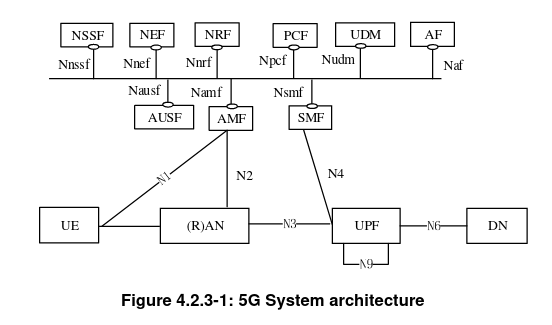
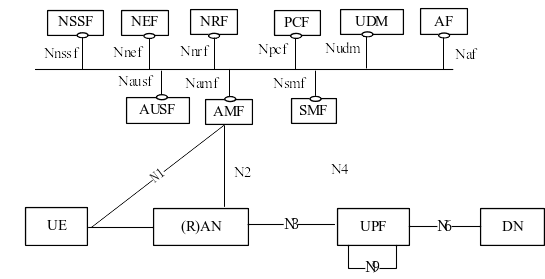
Complete 2.1 5g intro

Changed region(s): [[0.0312, 0.0287, 1.0, 0.9749], [0.2807, 0.4875, 0.3743, 0.6022]]

diff --git a/chapters/2-background.tex b/chapters/2-background.tex
@@ -1,30 +1,189 @@
-\chapter{背景}
+\chapter{背景與挑戰}
 \label{chapter:background}
 
 
-\section{5G 核心網路簡介}
-\label{sec:5g_core_intro}
+行動網路主要分成接入端網路 (AN, access network) 與核心網路 (CN, core network)，其中接入端最常見的形式便是以基地臺 (base station) 為主的無線網路接入 (RAN, radio access network)，主要負責聯接使用者設備 (UE, user equipment) 與核心網路、訊號解碼、波束成型、協助核網進行移動管理等等功能，包含 3G 時期的 nodeB、4G 時的 eNodeB、與 5G 時的 gNodeB。核心網路則是負責處理除接入端外剩下所有事務，包含認證、行動管理、服務品質管理、封包轉送、用量計費、連線與路由規劃、使用者資料紀錄等等功能，包含 2/3G 時的 GPRS 核心網路、4G 的 EPC、與 5G 的 5GC。而核心網路之外會接入資料網路 (DN, data network)，包含但不限於我們常見的網際網路 (the Internet) 或電信商可能會提供的 MEC 網路。完整架構可參考圖~\ref{fig:5g_core_arch}，此為 3GPP 於 23.501~\cite{3gpp.23.501}標準定義之 5G 行動網路架構圖。
+
+本章我們會著墨於 5G 核心網路的介紹，包含用戶層與控制層的介紹，以及常見流程，然後介紹並比較幾個知名的 5G 核心網路專案，最後會描述目前 5G 核心網路所遇到的挑戰。
+
+\begin{figure}[htbp]
+    \centering
+    \includegraphics[height=!,width=1\linewidth,keepaspectratio=true]
+                    {figures/23_501_4-2-3-1_sys_arch_sbi}
+                    % [] 放的是顯示在 list of figure 的文字
+                    % {} 放的是顯示在圖下方的文字
+                    \caption[5G 核網架構]{{\footnotesize 5G 核網架構 (取自 TS 23.501 Figure 4.2.3-1~\cite{3gpp.23.501})}}
+                    \label{fig:5g_core_arch}
+\end{figure}
+\pnote{圖片自畫}
+
+\section{5G 核心網路架構}
+\label{sec:5g_core}
+
+% 介紹功能 CUPS、SBI、NF、NFV
+要瞭解 5G 核心網路首先要對 4G 核心網路有一些概念，在 4G 時代，核心網路主要有幾個重要的部件 (component)，Mobility Management Entity (MME)、Serving Gateway (S-GW)、PDN Gateway (P-GW)、Home Subscriber Server (HSS)、與 Policy and Charging Rules Function (PCRF) (見圖~\ref{4g_core_arch}，這裡不討論其他額外功能)，MME 負責連線與移動的管理，S-GW 負責與 RAN 對接，將 LTE 的承載 (bearer) 轉換成 Internet 的形式，P-GW 負責與網際網路間接，HSS 會紀載使用者資料與幫助認證，PCRF 則是作規則與計價的管理。而隨著 4G 行動網路的發展，3GPP 會議與電信商越加越多新的功能後，發現此架構不再適用於新功能的發展，而決定對核心網路有架構性的改變，而發展出了 5G 核心網路。5G 核心網路在架構上有幾個突破性的改變，包含：
+\begin{itemize}
+    \item \textbf{網路功能虛擬化 (NFV, Network Function Virtualization):} 核心網路爲應印雲端 (cloud) 與微服務 (microservice) 的架構，逐漸往網路功能虛擬化方向發展，及所以功能部件皆以軟體形式呈現以方便於在標準化硬體 (commodity hardware) 上部屬，並且核心網路亦將 4G 的五大部件依據功能性，拆分為更小的單位，並以 Network Function 稱之 (以下簡稱 NF)。
+    \item \textbf{用戶端與控制端分離 (CUPS, Control and User Plane Separation):} 4G 時如 S/P-GW 同時具備用戶端功能與控制端功能，但在逐漸發展後，3GPP 認為應該將用戶端與用戶端分離，於是研議出 4.5G 時的 CUPS，將 S/P-GW 的用戶端功能拉出並以 PFCP (Packet Forwarding Control Protocol) 協定控制，而 5G 時更是把 S/P-GW 的使用者功能合併並獨立拉出成一個 NF。
+    \item \textbf{服務導向架構 (SBA, Service Base Architecture):} 有鑑於 5G 將核網區分為更多小單位的 NF，如此多種不同整類的 NF 若需互相溝通，將需要開發出多種不同的界面與協定而導致開發與擴展困難，因此 3GPP 於 5G 時採用 SBA 架構，其界面統稱為 SBI (Service Base Interface)，透過制定統一的通訊格式，減少需要對每個界面開發出新協定的繁瑣，並且若需要新增界面或 NF，僅需重新使用相同格式便可輕鬆開發出新的界面或 NF。
+    \item \textbf{網路切片 (Network Slice):} 由於 5G 希望提供更多的網路功能給使用者使用，如何限制功能與功能間的接觸、將相似或上下依賴的功能分群、以及將網路功能有效的擴充或縮減以有效利用資源便是以此而生的問題。而網路切片便是提供幫助網路功能的分群的服務，透過網路切片的概念，可以讓管理者以切片為單位，更方便的管理大量的網路服務。
+\end{itemize}
+
+\cnote{畫圖\_4g\_core\_arch}
 
 % 介紹各個 NF
+
+爲因應以上幾個架構性改變，核心網路成新將重新定義成多個 NF，3GPP 會議於 Release-15 時至少定義了 23 種 NF (詳見 TS 23.501 6.2 章)，我們取其中較為重要的 9 個 NF 來介紹：
+
+% This LaTeX table template is generated by emacs 27.2
+%\begin{center}
+\begin{xltabular}{\textwidth}{|c|X|}
+    %\noalign{\smallskip}
+    %\centering
+    \hline
+    \textit{\textbf{NF}} & \multicolumn{1}{c|}{\textit{\textbf{描述}}} \\
+    \midrule[1.5pt]
+    AMF & Access Management Function，主要負責註冊、接入、以及移動管理等，會透過 N2 界面與 RAN 溝通，此介面使用 NGAP 協定，另外透過 N1 界面間接與 UE 溝通，以 NAS 協定承載。\\
+    \hline
+    AUSF & Authentication Server Function，負責 3GPP 接入與 non-3GPP 接入的認證流程。\\
+    \hline
+    NRF & Network Repository Function，負責幫助服務探訪 (service discovery)、有效的 NF 資訊維護與提供、NF 健康狀態維護、NF 註冊、更新、取消註冊的狀態通知等功能。\\
+    \hline
+    NSSF & Network Slice Selection Function，選擇服務 UE 的網路切片 (network slice) 集合，維護、設定、決定 NSSAI 與 S-NSSAI 的關係映射。\\
+    \hline
+    PCF & Policy Control Function，負責提供控制端所需的管理規則，並提供統一的規則管理框架以保護網路功能行為。\\
+    \hline
+    SMF & Session Management Function，處理包含連線管理 (包含 AN 與 UPF)、UE IP 的發放管理、流量導向轉換與分流 (traffic steering)、虛擬網路 (VN, virtual network) 群組管理、協助執行管理與收費規則、協助品質管理 (QoS) 與緩衝管理 (buffering)、漫遊等等功能。\\
+    \hline
+    UDM & Unified Data Management，負責 5G AKA 憑證產生、使用者識別、隱私保護的識別碼 (SUCI) 解碼、UE 的服務 NF 註冊管理、訂閱資訊管理等功能。\\
+    \hline
+    UDR & Unified Data Repository，負責儲存資料，包含 UDM 的訂閱資料、PCF 的規則資料、應用服務資料、NF 群組資料、需要被接觸的結構化資料等。\\
+    \hline
+    UPF & User plane function，是核網中唯一的用戶端 NF，基本上負責執行 SMF 所下的指令，可能包含封包路由與轉送、封包封裝與解封、與外部 PDU 連線、流量規則執行與使用報告、服務品質管理 (QoS)、上下行緩衝、終止符號 (End Marker) 的傳送等等功能。\\
+    \hline
+    % [] 放的是顯示在 list of figure 的文字
+    % {} 放的是顯示在圖下方的文字
+    \caption[NF 介紹]{{\footnotesize NF 介紹}}
+    \label{tab:nf_intro}
+\end{xltabular}
+%\end{center}
+
+在這些 NF 中，又以 AMF、SMF、與 UPF 最常被提出討論，主要是因為 AMF 是負責與 RAN 的控制端訊號對接的，幾乎所有 UE 與 RAN 所發出的控制訊息都要透過 AMF 接入核心網路，且大部分訊息也都是 AMF 會進行處理或初步解譯；UPF 是所有用戶端封包一定會經過的，若 UPF 的效率不彰將導致整個網路使用起來遲緩、無法達到 5G 訴求的高流量低延遲；而 SMF 則是扮演決定用戶端路徑流量、與分析控制端訊號並轉換成用戶端規則的重要角色，可謂是控制端與用戶端規則互相轉換的重要元件。
+
 % 介紹 SA 與 NSA 架構差別
 % 介紹 3GPP 與 non-3GPP
-
-\subsection{5G 核心網路用戶層介紹}
-\label{subsec:5g_up_intro}
-
-% UPF 細節
-% 介紹 GTP, PFCP
 
 \subsection{5G 核心網路控制層介紹}
 \label{subsec:5g_cp_intro}
 
 % CP-NF 細節
 % 介紹 SBI, NGAP, NAS, PFCP
+不同於 4G 將所有功能至於五個部件上，5G 核心網路將所有功能拆分成不同 NF，並且可以明確的定義哪些 NF 是屬於控制端的 NF 而那些是屬於用戶端，基本上除了 UPF 外的 NF 都是屬於控制端。相較於 4G，由於 5G 需要承載更大量的設備、支援高速移動、功能拆分溝通、更多複雜的應用等，控制端的訊息在設計起來時便要考慮如何降低其延遲性、更容易被解讀、且一體化，因此有了如上所訴的 SBA 架構設計。3GPP 於 SBI 上採用了 HTTP/2 的協定通訊，相對於 HTTP/1，HTTP/2 透過資料壓縮與多路複用等能力，大幅減少網路的延遲。另外於 HTTP/2 協定內採用 RESTful API 的設計，透過有效的 HTTP Verb 使用，提供簡潔易辨識的 URI 資源操作，而 3GPP 更是採用 OpenAPI 格式，可以輕鬆快速的定義人類易讀的 YAML 格式，並透過轉換工具產生程式碼。
+
+除了 SBA 的設計外，核心網路在 N2 及 N3 界面保留使用了 4G 的協定以向下相容，其中 N2 界面是介於 AMF 與 RAN 之間，在此界面上採用 NGAP 協定，是 4G 時 MME 與 RAN 溝通所使用的 S1AP 協定的新版，其內容規格大致相同採用 TLV 設計，另外在 N2 之上 UE 與 AMF 乃至於 SMF 的溝通格式採用 NAS (non-access stratum) 訊息，其中 non-access 是相對於 RAN 與 AMF 直接相接的 AS 所命名的。而 N3 界面則是介於 SMF 與 UPF 之間，使用 4G 於 R13 CUPS 時採用的 PFCP (Packet Forwarding Control Protocol) 作為通訊協定，同樣承襲了 TLV 設計，並透過五種規則資訊元素 (IE, Information Element) 對用戶端進行規則下達。
+
+\subsection{5G 核心網路用戶層介紹}
+\label{subsec:5g_up_intro}
+
+% UPF 細節
+% 介紹 GTP, PFCP, PDR, FAR
+在用戶端 5G 便比 4G 簡化許多，僅使用 UPF 作為用戶端之唯一 NF。UPF 不會自行決定規則，亦不會與基地臺或其他 UPF 溝通來作判斷，而是完全遵守 SMF 透過 N3 界面下達的規則，因此隨著連線數量漸多、穩定及延遲需求漸高，此介面的溝通效率便越發重要。N3 界面目前使用 PFCP (Packet Forwarding Control Protocol) 協定，此協定遵守 TLV 格式，亦即以 TLV 為一個單位，每個單位內部會包含三個資訊：
+\begin{enumerate*}
+\item 種類 (T, type)
+\item 長度 (L, length)
+\item 值 (V, value)
+\end{enumerate*}
+，並且在值內可以另外包含一個或多個更小單位，而透過使用 TLV 格式可有效壓縮訊息長度，增加網路頻寬使用效率。
+
+而在 PFCP 訊息裡，以 PFCP 連線 (PFCP Session) 為單位，基本上會與 PDU 連線互相映射。在 PFCP 連線內會包入封包處理規則，這些規則主要分為五類：
+\begin{itemize}
+\item \textbf{PDR (Packet Detection Rules):} 主要負責辨別那些進入封包屬於這個規則內。
+\item \textbf{FAR (Forwarding Action Rules):} 當收到屬於此規則的封包後，該如何處理 (封裝、轉送、儲存、丟包、...)。
+\item \textbf{BAR (Buffering Action Rules):} 決定對緩衝的處理方法，屬於輔助性規則。
+\item \textbf{QER (QoS Enforcement Rules):} 定義所要應用的 QoS 規定，屬於輔助性規則。
+\item \textbf{URR (Usage Reporting Rules):} 該如何計算與回報流量資訊，屬於輔助性規則。
+\end{itemize}
+
+\begin{figure}[htbp]
+    \centering
+    \includegraphics[height=!,width=1\linewidth,keepaspectratio=true]
+                    {figures/29_244_5-2-1-1_pack_proc_flow}
+    % [] 放的是顯示在 list of figure 的文字
+    % {} 放的是顯示在圖下方的文字
+    \caption[UP 封包處理流程]{{\footnotesize UP 封包處理流程 (取自 TS 29.244 Figure 5.2.1-1~\cite{3gpp.29.244})}}
+    \label{fig:up_pack_proc_flow}
+\end{figure}
+\pnote{圖片自畫}
+
+圖~\ref{fig:up_pack_proc_flow} 顯示出了 UPF 對於封包的處理過程，當用戶端封包進入後，UPF 會從 PFCP 連線中查找出符合封包的 PDR (PDR 是 UPF 內唯一的)，當查找到符合條件的 PDR 後會從 PDR 內儲存的指定 FAR/QER/URR ID 查找相對應的 FAR/QER/URR，來決定針對這個封包相對應的轉送/服務品質/流量計算回報規則，又如果是 FAR 且規則是將封包存入緩衝區，則 FAR 內部可能儲存指定 BAR ID 以查找 BAR 並以此規則對緩衝作出處理方法。
+
+另外在核心網路內部的用戶端則是延用 4G 時期的 GTP (GPRS Tunnelling Protocol) 協定來作為封包的穿隧協議，除了 N6 界面 (UPF 與 DN 的中間界面) 外，核網內的用戶端界面包含 N3 (RAN 與 UPF) 與 N9 (UPF 與 UPF) 都是使用 GTP 協定相連。GTP 協定在封裝時會於網路層 (network layer, l3) 之下再包覆一層 GTP 標頭與新的 IP 標頭，而在有 GTP 標頭的狀況下，UPF 會透過查詢 GTP 內的 TEID 取代查詢傳統 IP 作為識別並作出相對應的轉送動作。而整個用戶端封包流程從手機到網際網路會是，封包從 UE 到 RAN 後會被 RAN 封裝成 GTP 封包並打上核網分配的 TEID，之後封包被送到 UPF，UPF 查看 TEID 透過 PDR 與 FAR 的規則查找，把 GTP 解封裝後送到 DN，完整協定疊 (protocol stack) 如圖~\ref{fig:up_proto}。
+
+\begin{figure}[htbp]
+    \centering
+    \begin{tikzpicture}
+        \tikzset{box/.style={minimum height=2em,draw=black,inner sep=0,thick,node distance=2em},minimum width=5em}
+        \def\nflen{2cm}
+        % UE
+        \node (ue) {UE};
+        \node[draw,box,above of=ue] (ue-l1) {L1};
+        \node[draw,box,above of=ue-l1] (ue-l2) {L2};
+        \node[draw,box,above of=ue-l2] (ue-ip) {IP};
+        \node[draw,box,above of=ue-ip] (ue-payload) {Payload};
+        % RAN
+        \node[right=\nflen of ue] (ran) {RAN};
+        \node[draw,box,above of=ran] (ran-l1) {L1};
+        \node[draw,box,above of=ran-l1] (ran-l2) {L2};
+        \node[draw,box,above of=ran-l2] (ran-under-ip) {{\small under} IP};
+        \node[draw,box,above of=ran-under-ip] (ran-udp) {UDP};
+        \node[draw,box,above of=ran-udp] (ran-gtpu) {GTP-U};
+        \node[draw,box,above of=ran-gtpu] (ran-upper-ip) {{\small upper} IP};
+        \node[draw,box,above of=ran-upper-ip] (ran-payload) {Payload};
+        % UPF
+        \node[right=\nflen of ran] (upf) {UPF};
+        \node[draw,box,above of=upf] (upf-l1) {L1};
+        \node[draw,box,above of=upf-l1] (upf-l2) {L2};
+        \node[draw,box,above of=upf-l2] (upf-under-ip) {{\small under} IP};
+        \node[draw,box,above of=upf-under-ip] (upf-udp) {UDP};
+        \node[draw,box,above of=upf-udp] (upf-gtpu) {GTP-U};
+        \node[draw,box,above of=upf-gtpu] (upf-upper-ip) {{\small upper} IP};
+        \node[draw,box,above of=upf-upper-ip] (upf-payload) {Payload};
+        % DN
+        \node[right=\nflen of upf] (dn) {DN};
+        \node[draw,box,above of=dn] (dn-l1) {L1};
+        \node[draw,box,above of=dn-l1] (dn-l2) {L2};
+        \node[draw,box,above of=dn-l2] (dn-ip) {IP};
+        \node[draw,box,above of=dn-ip] (dn-payload) {Payload};
+        % line
+        % NR
+        \draw (ue-l1) -- (ran-l1);
+        \draw (ue-l2) -- (ran-l2);
+        \draw (ue-ip.east) -- (ran-upper-ip.west);
+        \draw (ue-payload.east) -- (ran-payload.west);
+        % N3
+        \draw (ran-l1) -- (upf-l1);
+        \draw (ran-l2) -- (upf-l2);
+        \draw (ran-under-ip) -- (upf-under-ip);
+        \draw (ran-udp) -- (upf-udp);
+        \draw (ran-gtpu) -- (upf-gtpu);
+        \draw (ran-upper-ip) -- (upf-upper-ip);
+        \draw (ran-payload) -- (upf-payload);
+        % N6
+        \draw (upf-l1) -- (dn-l1);
+        \draw (upf-l2) -- (dn-l2);
+        \draw (upf-upper-ip.east) -- (dn-ip.west);
+        \draw (upf-payload.east) -- (dn-payload.west);
+    \end{tikzpicture}
+    % [] 放的是顯示在 list of figure 的文字
+    % {} 放的是顯示在圖下方的文字
+    \caption[用戶端協定疊]{{\footnotesize 用戶端協定疊}}
+    \label{fig:up_proto}
+\end{figure}
 
 \subsection{5G 常見流程}
 \label{subsec:5g_procedure}
 
-在核心網路中有定義了大量不同的流程 (procedure~\cite{3gpp.23.502}) 來適應不同的情境，而其中我們認為有主要四個流程是在核心網路中最重要也是最長觸發的，對這四個流程的觀察可以讓我們對核心網路可以有更快速的瞭解，同時因為其重要性，也適合作為實驗評估時的基準。
+在核心網路中有定義了大量不同的流程~\cite{3gpp.23.502}來適應不同的情境，而其中我們認為有主要四個流程是在核心網路中最重要也是最長觸發的，對這四個流程的觀察可以讓我們對核心網路可以有更快速的瞭解，同時因為其重要性，也適合作為實驗評估時的基準。
 
 \begin{itemize}
 \item \textbf{Registration:}
@@ -46,12 +205,16 @@
     因此低延遲的 paging 流程表示能夠讓 UE 即時的接收到下行封包，也降低了 UPF 儲存大量下行封包下的負擔。同時若沒有 paging 流程，UE 將會需要時時保持與核心網路的連線而可能導致大量的電源消耗。
 \end{itemize}
 
-\subsection{現存 5G 核心網路專案}
-\label{subsec:5g_core_project}
+\section{現存 5G 核心網路專案}
+\label{sec:5g_core_project}
 
-\cnote{這邊放 ONVM 了話又會跟 system 那邊重疊，需要找一個不突兀的方法把 dpdk 跟 shared memory 代出來}
-%\section{OpenNetVM 平臺}
-%\label{sec:OpenNetVM}
+\section{現行方案的挑戰}
+\label{sec:challenge}
+
+% 強調 core network 因為 NFV 化，所以不再依賴硬體而可以部屬於同一 host，是否保持用 RPC 溝通就是可以重新審視的問題
+
+\cnote{這邊直接把工具拿出來描述有點怪，需要找一個不突兀的方法把 dpdk 跟 shared memory 帶出來}
+\cnote{或在這裡放 related works}
 
 % 其他類似平臺
 % 直接用 dpdk, nff-go
@@ -59,23 +222,17 @@
 \subsection{Data Plane Development Kit}
 \label{subsec:DPDK}
 
-
+\pnote{這張圖需要重畫}
 \begin{figure}[htb]
-  \centering
-  % 圖片的高度與寬度, height 設為 ! 代表由寬度大小等比例縮放
-  \includegraphics[height=!,width=0.6\linewidth,keepaspectratio=true]%
-  % 圖片的位置
-  {figures/dpdk_vs_kernel}
-  % [] 放的是顯示在 list of figure 的文字
-  % {} 放的是顯示在圖下方的文字
-  \caption[封包處理比較：Linux 核心與 DPDK]{{\footnotesize 封包處理比較：Linux 核心與 DPDK \cite{dpdk}}}
-  \label{fig:dpdk_vs_kernel}
+    \centering
+    % 圖片的高度與寬度, height 設為 ! 代表由寬度大小等比例縮放
+    \includegraphics[height=!,width=0.6\linewidth,keepaspectratio=true]
+                    {figures/dpdk_vs_kernel}
+                    % [] 放的是顯示在 list of figure 的文字
+                    % {} 放的是顯示在圖下方的文字
+                    \caption[封包處理比較：Linux 核心與 DPDK]{{\footnotesize 封包處理比較：Linux 核心與 DPDK \cite{dpdk}}}
+                    \label{fig:dpdk_vs_kernel}
 \end{figure}
 
 \subsection{Shared Memory}
 \label{subsec:shared_memory}
-
-\section{現行方案的挑戰}
-\label{sec:challenge}
-
-% 強調 core network 因為 NFV 化，所以不再依賴硬體而可以部屬於同一 host，是否保持用 RPC 溝通就是可以重新審視的問題

diff --git a/chapters/4-evaluation.tex b/chapters/4-evaluation.tex
@@ -7,13 +7,35 @@
 \label{sec:evaluation_env}
 
 我們所使用的硬體與軟體規格如下：
-\begin{itemize}
-\item 中央處理器: Intel(R) Core(TM) i7-9700 CPU @ 3.00GHz
-\item 處理器核心數: 8
-\item 網卡: Intel Corporation Ethernet Controller X710/X557-AT 10GBASE-T 1589
-\item 作業系統: centos-release-7-8.2003.0.el7.centos.x86\_64
-\item 作業系統核心版本: 3.10.0-1127.el7.x86\_64
-\end{itemize}
+%\begin{itemize}
+%\item 中央處理器: Intel(R) Core(TM) i7-9700 CPU @ 3.00GHz
+%\item 處理器核心數: 8
+%\item 網卡: Intel Corporation Ethernet Controller X710/X557-AT 10GBASE-T 1589
+%\item 作業系統: centos-release-7-8.2003.0.el7.centos.x86\_64
+%\item 作業系統核心版本: 3.10.0-1127.el7.x86\_64
+%\end{itemize}
+
+% This LaTeX table template is generated by emacs 27.2
+\begin{table}[h!]
+    \centering
+    \begin{tabular}{c|l}
+        \hline
+        CPU & Intel(R) Core(TM) i7-9700 CPU @ 3.00GHz \\
+        \hline
+        Core No. & 8 \\
+        \hline
+        NIC & Intel Corporation Ethernet Controller X710/X557-AT 10GBASE-T 1589 \\
+        \hline
+        OS & centos-release-7-8.2003.0.el7.centos.x86\_64 \\
+        \hline
+        Kernel & 3.10.0-1127.el7.x86\_64 \\
+        \hline
+    \end{tabular}
+    % [] 放的是顯示在 list of figure 的文字
+    % {} 放的是顯示在圖下方的文字
+    \caption[系統環境參數]{{\footnotesize 系統環境參數}}
+    \label{table:sys_env}
+\end{table}
 
 我們的實驗在邏輯上(logically)將系統分為三個部件(component)，邊緣端(edge)、核心網路(core network)、與數據網路(data network)。邊緣端在真實網路下即是手機、基地臺與相關部件，以下會以 UE-RAN simulator 代稱。核心網路如第二章節所講解的，是第五代行動通訊網路中，放在機房(data center)中，負責統籌處理控制端(control plane)與轉發(forward)、封裝(encapsulate)、解封裝(decapsulate)使用者端(user plane)。而數據網路(data network)，則是泛指傳統網路(the Internet)，即為大多數時候，手機使用者想要存取(access)的服務之所在位置。
 

diff --git a/main.tex b/main.tex
@@ -11,7 +11,15 @@
 %\usepackage{graphviz}     % graphviz to draw graph
 \usepackage{tikz}         % tikz to draw graph
 \usetikzlibrary{arrows,calc,shapes,chains}
-\usepackage{enumitem}
+\usepackage[inline]{enumitem}
+%\usepackage{paralist}
+% Table style
+\usepackage{xltabular}
+\usepackage{tabularx}
+\usepackage{longtable}
+\usepackage{pdfcomment}
+\usepackage{todonotes}
+\renewcommand\tabularxcolumn[1]{m{#1}} % for vertical centering text in X column
 \setlist{topsep=1pt,itemsep=1pt,parsep=1pt,itemindent=0pt,leftmargin=0.13in}
 \usepackage{outlines}
 \usepackage{soul}         % Highlite capability
@@ -40,7 +48,8 @@
 }
 
 \renewcommand\_{\textunderscore\allowbreak}
-\newcommand{\cnote}[1]{{\color{red}[Calee: #1]}}
+\newcommand{\cnote}[1]{{\color{red}[calee: #1]}}
+\newcommand{\pnote}[1]{{\pdfcomment[color=blue,icon=Insert,author={Chia-An Lee}]{#1}}}
 
 %-------------------------------------------------------------------------------
 % Configuration

diff --git a/chapters/.#3-system.tex b/chapters/.#3-system.tex
@@ -1,0 +1,1 @@
+calee@fedora.3769:1622665141
